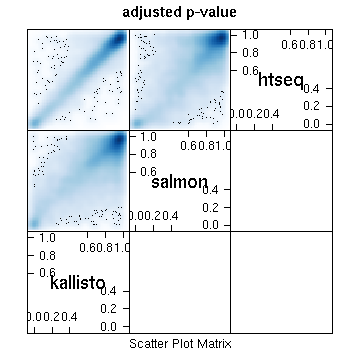
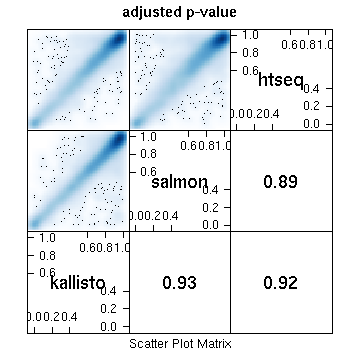
salmon 0.4.0

diff --git a/20150608-kallisto-salmon-htseq/index.html b/20150608-kallisto-salmon-htseq/index.html
@@ -72,16 +72,14 @@
 
 <h3>Introduction</h3>
 
-<p>A single read 50 RNA-seq experiment (NEB, riboZero) was used to compare diffential expression with 3 strategies:  HtSeq-count-gene (union,  version 0.6.1p1), salmon-gene (version : 0.3.0) and kallisto-gene (kallisto 0.42.1).
+<p>A single read 50 RNA-seq experiment (NEB, riboZero) was used to compare diffential expression with 3 strategies:  HtSeq-count-gene (union,  version 0.6.1p1), salmon-gene (version : 0.4.0,  --libType SR --unmatedReads --extraSensitive  --biasCorrect, but the bias corrected file was not used) and kallisto-gene (kallisto 0.42.1).
 The reads were aligned to mm10 using star-aligner. Ensembl GRCh38 78 gtf was used as annotation. For salmon (non bias corrected) and kallisto the indices were
 generated from Homo_sapiens.GRCh38.cdna.all.fa.gz and Homo_sapiens.GRCh38.ncrna.fa.gz.
 The experiment consisted of 4 conditions with 2 replicates each. Gene counts were derived from kallisto with a home made script by summing estimated counts/transcripts per gene.
 Differential expression was called using DESeq2.</p>
 <p>Only the comparison for one condition is shown. The other conditions had similar results regarding htseq/kallisto/salmon.</p>
 
-<p>The bottom line is that the overlap between kallisto and HtSeq-count in calling differentially expressed genes is largest. Depending on the p-value treshold, there are about 10-20% called by only htseq or kallisto or salmon.
-About 2% are called by salmon and htseq or kallisto. The majority is called by all three methods and htseq and salmon together. The difference in choosing kallisto or htseq-count is about 15%. Because of the consistency of the differentially expressed genes with
-transcript estimations I will switch to kallisto for most future analyses. 
+<p>The bottom line is that the differences are neglegible. 
 </p>
 
 
@@ -92,7 +90,9 @@ transcript estimations I will switch to kallisto for most future analyses.
 <img src="theresaAlign/plotAnnotation-1.jpg"/>
 
 <h3>Scatter Plots</h3>
-<p>Scatter plots show high correlation between the different methods. Salmon and kallisto have the highest correlation for base mean, however, when comparing the p-values of differential expression, htseq-counts and kallisto are correlating better.</p>  
+<p>Scatter plots show high correlation between the different methods. Numbers are spearman correlation of plotted values. 
+</p>  
+
 
 <div class="chunk" id="basemean"><div class="rimage default"><img src="figure/basemean-1.png" title="plot of chunk basemean" alt="plot of chunk basemean" class="plot" /></div></div>
 
@@ -100,20 +100,22 @@ transcript estimations I will switch to kallisto for most future analyses.
 
 <div class="chunk" id="padj"><div class="rimage default"><img src="figure/padj-1.png" title="plot of chunk padj" alt="plot of chunk padj" class="plot" /></div></div>
 
-<h3>comparison diff expression</h3>
-<p>Testing for the intersections of differentially expressed called genes at different p-value tresholds, the overlap between kallisto and HtSeq-count is the largest. Depending on the p-value treshold, there are about 10-20% called by only htseq or kallisto or salmon.
-About 2% are called by salmon and htseq or kallisto. The majority is called by all three methods or htseq and salmon together. The difference between choosing kallisto or htseq-count is about 15%. Because of the consistency of the differentially expressed genes with
-transcript estimations I will switch to kallisto for most future analyses.
-</p>
+<h3>comparison differential expression</h3>
+
 <div class="chunk" id="padj1"><div class="rimage default"><img src="figure/padj1-1.png" title="plot of chunk padj1" alt="plot of chunk padj1" class="plot" /></div></div>
 
 <div class="chunk" id="padj2"><div class="rimage default"><img src="figure/padj2-1.png" title="plot of chunk padj2" alt="plot of chunk padj2" class="plot" /></div></div>
 
 <div class="chunk" id="padj3"><div class="rimage default"><img src="figure/padj3-1.png" title="plot of chunk padj3" alt="plot of chunk padj3" class="plot" /></div></div>
+
+
 <h3>Summary</h3>
-HtSeq count and kallisto had most of the differentially called genes in common. This study is only anecdotal evidence because the ground truth is not known. The optimum would be if somebody integrates kallisto and salmon
+60% of all the differentially expressed genes are found by all 3 methods. In addition to this 8% are found by htseq and kallisto or salmon and kallisto. Another 8% is found only by HtSeq-count.
+There are only 3% genes found by only kallisto and 6% by only salmon as being differentially expressed. If the methods would be completely independent and genes called by just one method would count as false positives, I would conclude that HtSeq-count has the highest rate of false positives. Kallisto results encompass both sailfish and HtSeq-count, with a very low rate of probably unreliable single method calls. 
+This study is only anecdotal evidence because the ground truth is not known. The optimum would be if somebody integrates kallisto and salmon
 into <a href="https://bitbucket.org/soccin/seqc">seqc</a> where a little bit of ground truth is known.
 
+PS: The first version of this study used salmon v0.3.0 which had dramatically different results.
 </body>
 </html>
 
